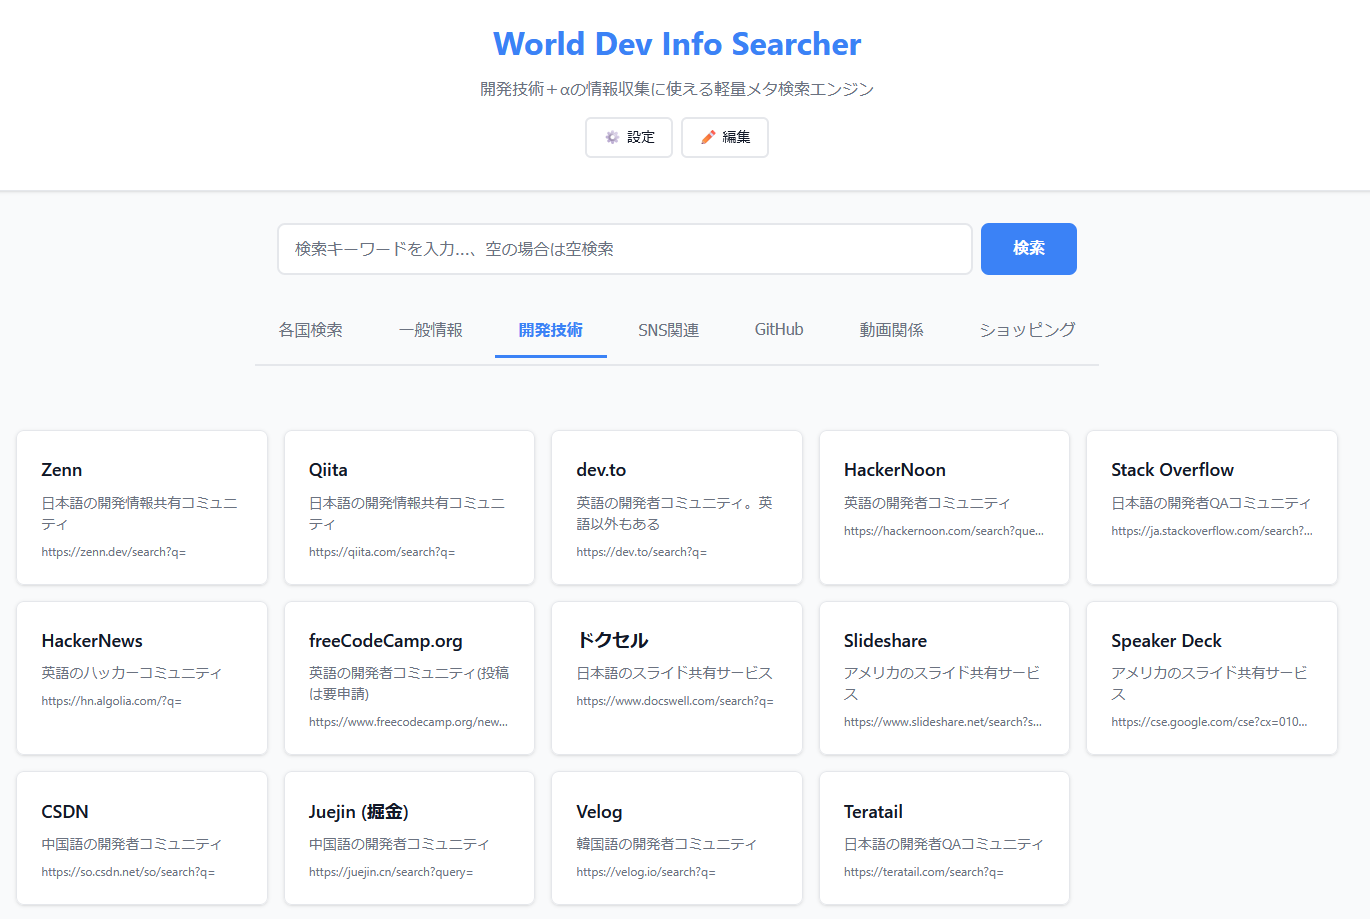
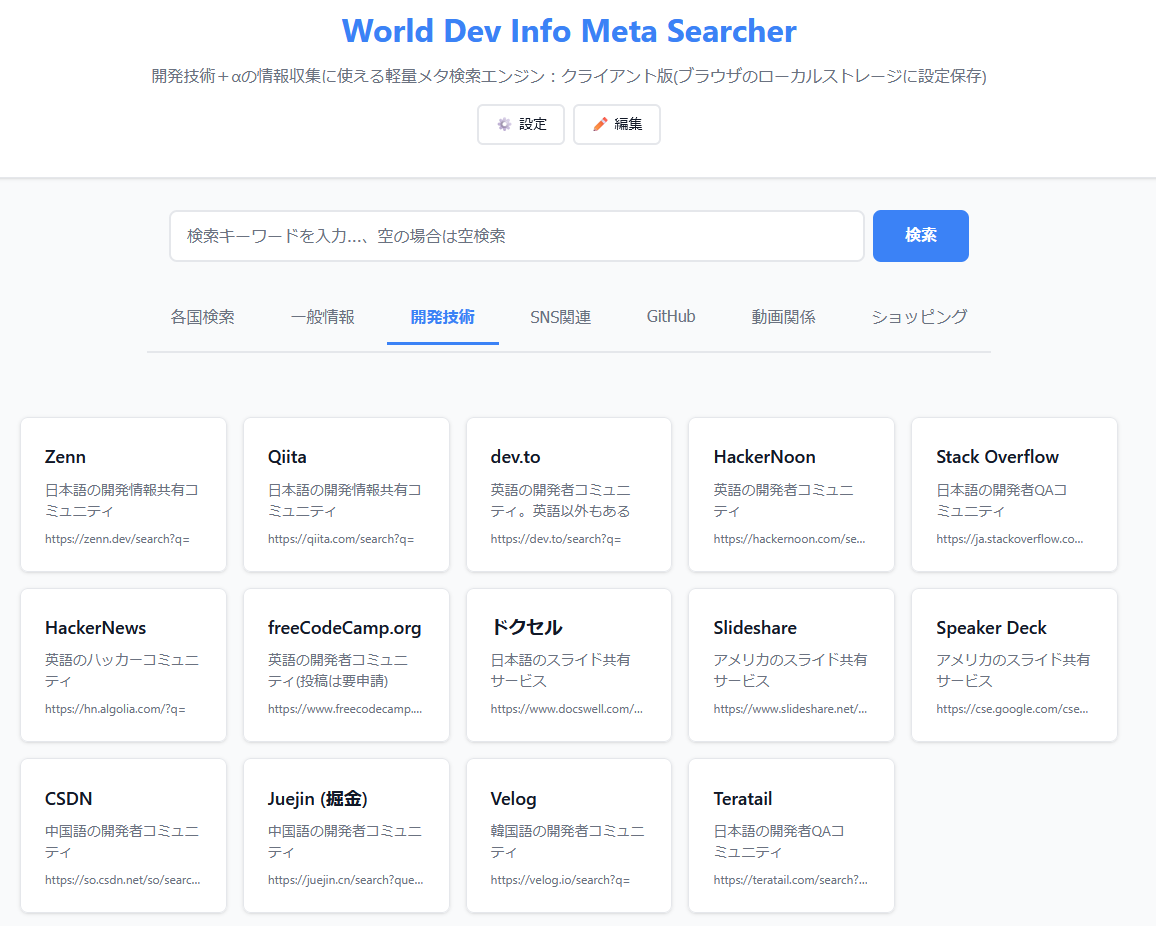
アプリのタイトルミス修正＋スクショ差し替え

diff --git a/src/App.tsx b/src/App.tsx
@@ -449,7 +449,7 @@ export function App() {
               編集モード：検索エンジンやタブをドラッグして並び替え、または編集＆削除できます
             </div>
           )}
-          <h1 className="app-title">World Dev Info Searcher</h1>
+          <h1 className="app-title">World Dev Info Meta Searcher</h1>
           <p className="app-subtitle">
             開発技術＋αの情報収集に使える軽量メタ検索エンジン：クライアント版(ブラウザのローカルストレージに設定保存)
           </p>
